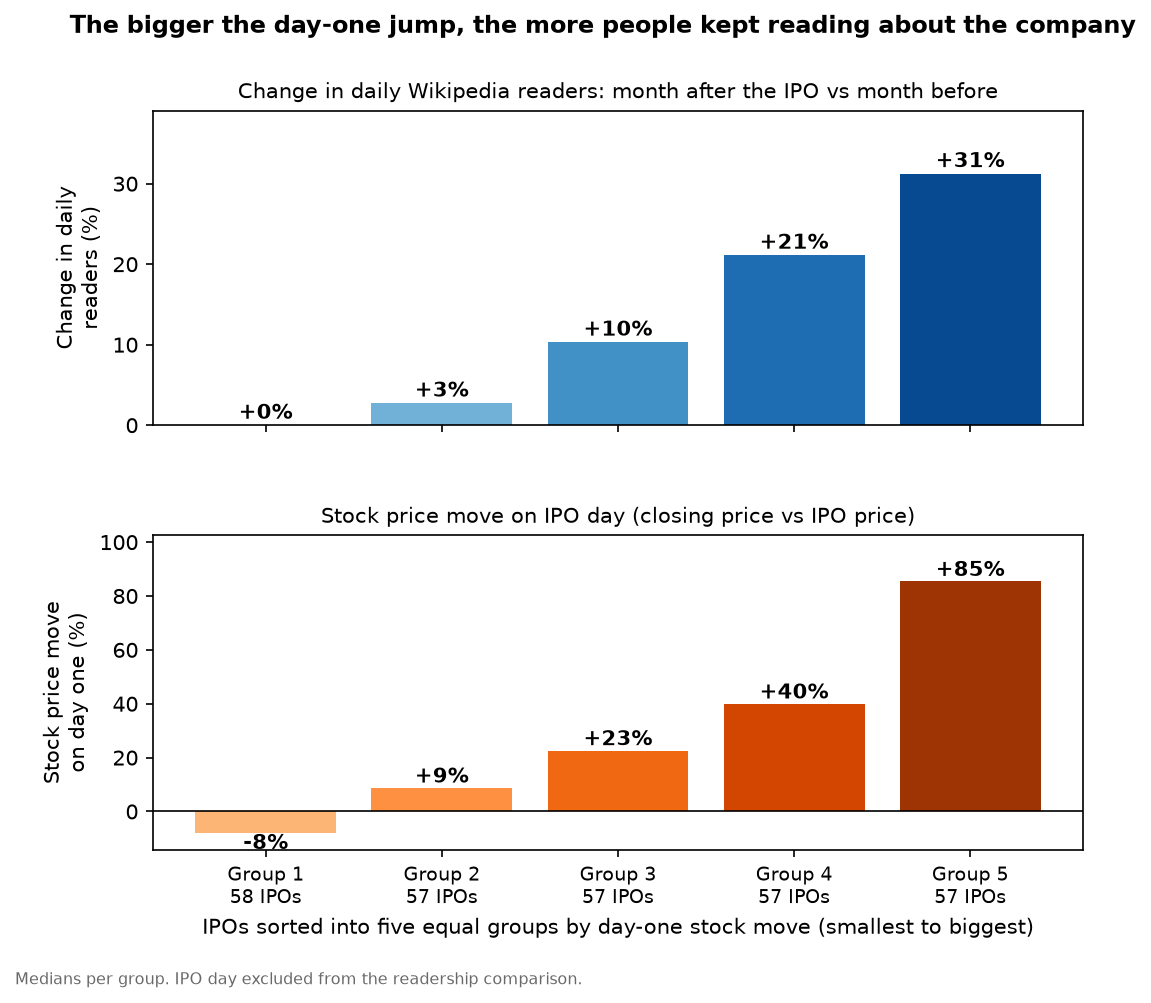
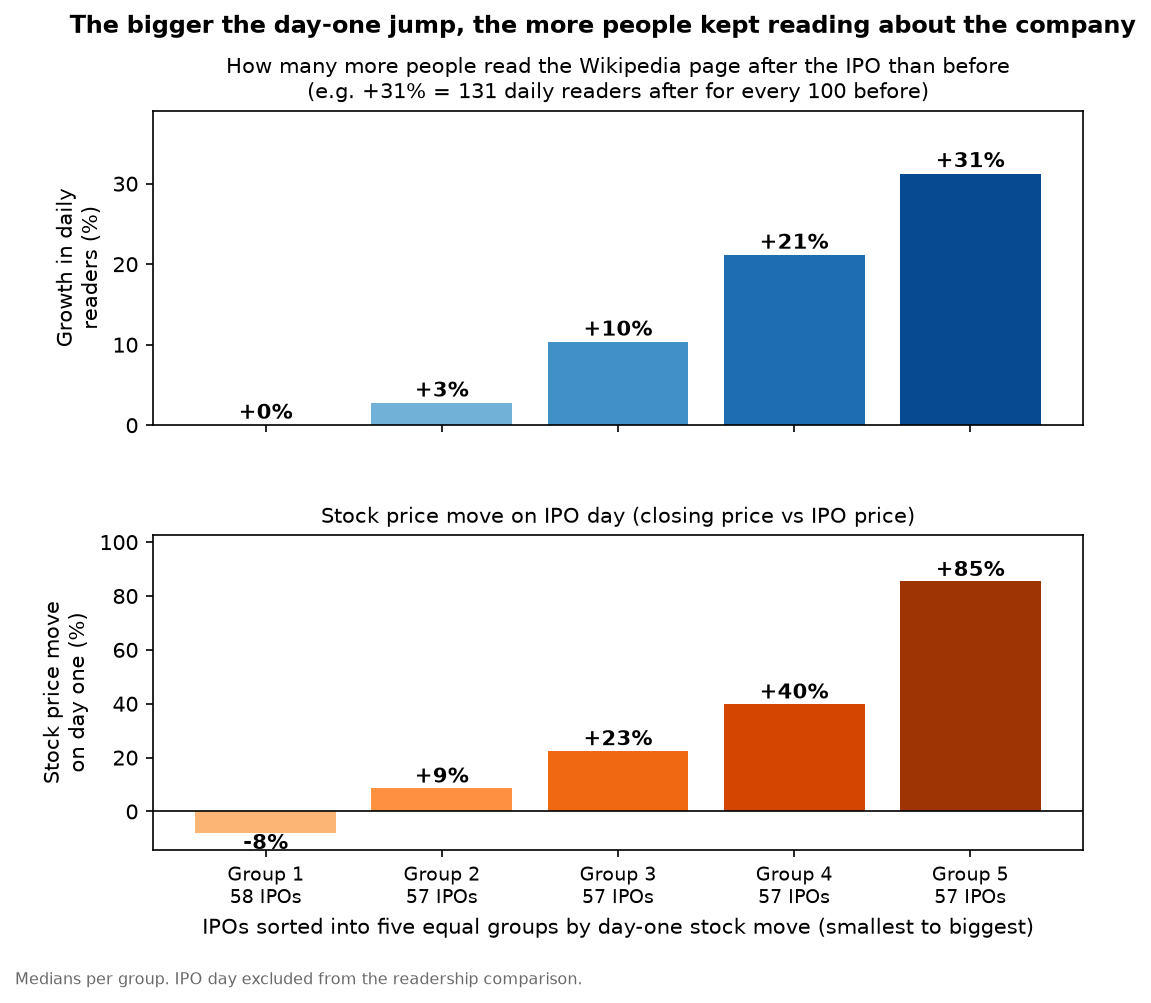
Reverse chart: plain-language readership title

Changed region(s): [[0.1825, 0.0618, 0.8818, 0.1236], [0.0304, 0.1854, 0.0608, 0.34]]

diff --git a/scripts/make_figures.py b/scripts/make_figures.py
@@ -36,8 +36,8 @@ x = np.arange(len(r)); cols = plt.cm.Blues(np.linspace(.35, .9, len(r)))
 chg = (r.median_post_to_pre_ratio - 1) * 100; pop = r.median_first_day_return * 100
 a1.bar(x, chg, color=cols)
 for xi, v in zip(x, chg): a1.text(xi, v + .8, f'+{v:.0f}%', ha='center', fontsize=10, fontweight='bold')
-a1.set_ylim(0, chg.max() * 1.25); a1.set_ylabel('Change in daily\nreaders (%)')
-a1.set_title('Change in daily Wikipedia readers: month after the IPO vs month before', fontsize=10)
+a1.set_ylim(0, chg.max() * 1.25); a1.set_ylabel('Growth in daily\nreaders (%)')
+a1.set_title('How many more people read the Wikipedia page after the IPO than before\n(e.g. +31% = 131 daily readers after for every 100 before)', fontsize=10)
 a2.bar(x, pop, color=plt.cm.Oranges(np.linspace(.35, .9, len(r)))); a2.axhline(0, c='k', lw=.8)
 for xi, v in zip(x, pop): a2.text(xi, v + (2 if v >= 0 else -6), f'{v:+.0f}%', ha='center', fontsize=10, fontweight='bold')
 a2.set_ylim(min(pop.min() * 1.8, -5), pop.max() * 1.2); a2.set_ylabel('Stock price move\non day one (%)')
